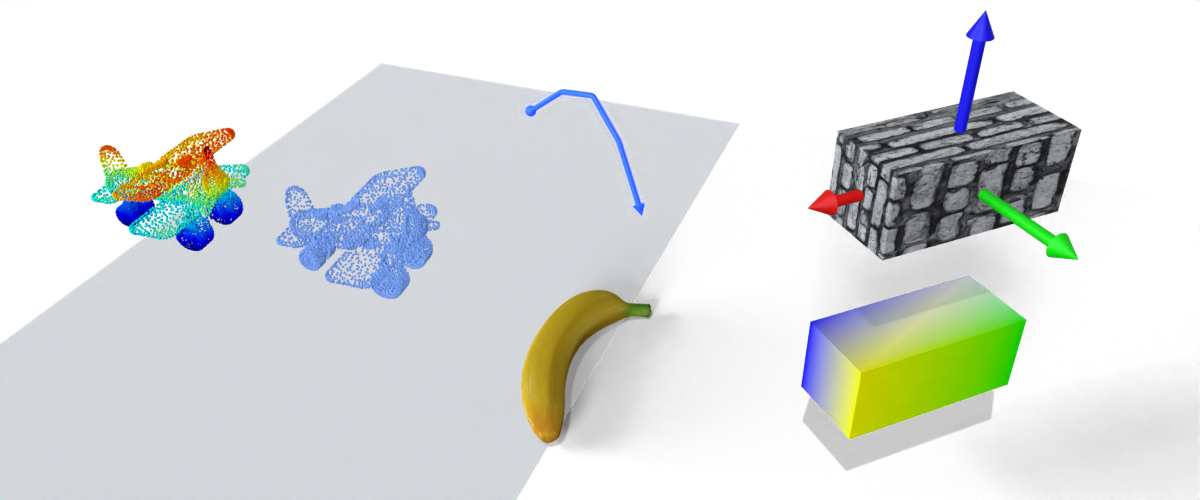
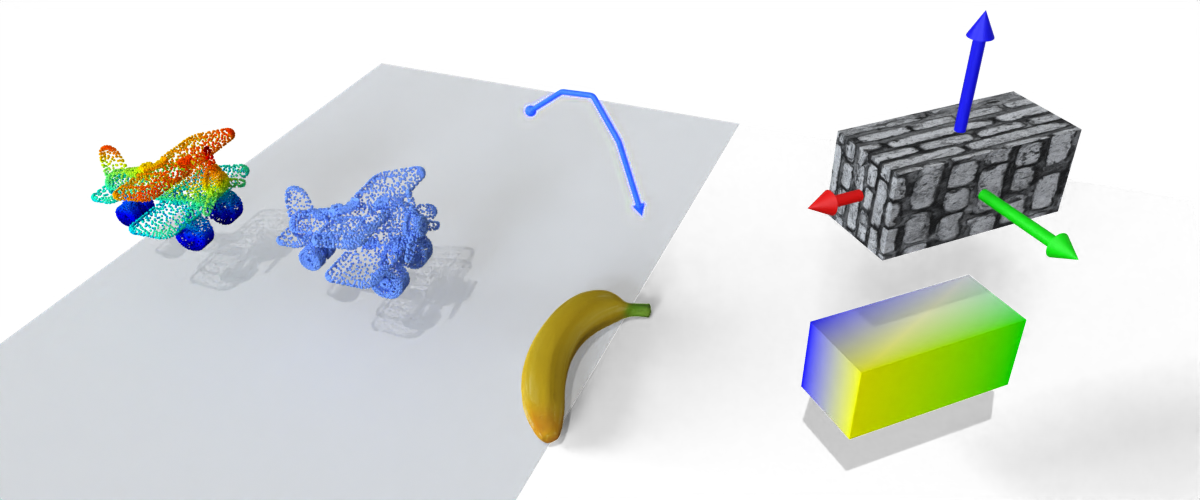
make pointcloud rgba & shadow

Changed region(s): [[0.0925, 0.27, 0.4008, 0.69], [0.5242, 0.57, 0.555, 0.63]]

diff --git a/tools/models.py b/tools/models.py
@@ -58,7 +58,7 @@ def edit_model(obj):
 
 # https://github.com/itsumu/point_cloud_renderer
 # https://b3d.interplanety.org/en/how-to-create-a-new-mesh-uv-with-the-blender-python-api/
-def add_pointcloud(filename, points, name, position, color, radius, scale=1 ):
+def add_pointcloud(filename, points, name, position, color, radius, scale=1, shadow=True ):
     '''
     Args:
         filename: str
@@ -135,6 +135,8 @@ def add_pointcloud(filename, points, name, position, color, radius, scale=1 ):
     tmp_obj.parent = instancer
     instancer.instance_type = 'FACES'
 
+    color_mode = 'rgba'
+
     if len(color) > 4:
 
         # add vertex color
@@ -175,7 +177,12 @@ def add_pointcloud(filename, points, name, position, color, radius, scale=1 ):
         img.pixels.foreach_set(colors)
 
         # # add texture for tmp_obj
-        mat = vertex_rgb_material(tmp_obj.name, vertex_color_name)
+
+        if color_mode == 'rgba':
+            mat = vertex_rgba_material(tmp_obj.name, vertex_color_name)
+        else:
+            mat = vertex_rgb_material(tmp_obj.name, vertex_color_name)
+        
         set_object_mat(tmp_obj, mat)
 
         nodes = mat.node_tree.nodes
@@ -184,15 +191,19 @@ def add_pointcloud(filename, points, name, position, color, radius, scale=1 ):
         image_node.image = img
         
         uv_node = nodes.new('ShaderNodeTexCoord')
-        diffuse_node = nodes['Diffuse BSDF']
         links.new( uv_node.outputs['UV'], image_node.inputs['Vector'] )
-        links.new( image_node.outputs['Color'], diffuse_node.inputs['Color'] )
+        if color_mode == 'rgba':
+            diffuse_node = nodes['Principled BSDF']
+            links.new( image_node.outputs['Color'], diffuse_node.inputs['Base Color'] )
+        else:
+            diffuse_node = nodes['Diffuse BSDF']
+            links.new( image_node.outputs['Color'], diffuse_node.inputs['Color'] )
         uv_node.from_instancer = True
     else:
         mat = rgba_material(tmp_obj.name, color)
         set_object_mat(tmp_obj, mat)
 
-    set_visible_property(instancer, False, False, False)
+    set_visible_property(instancer, shadow=shadow)
 
     bm.free()
 
